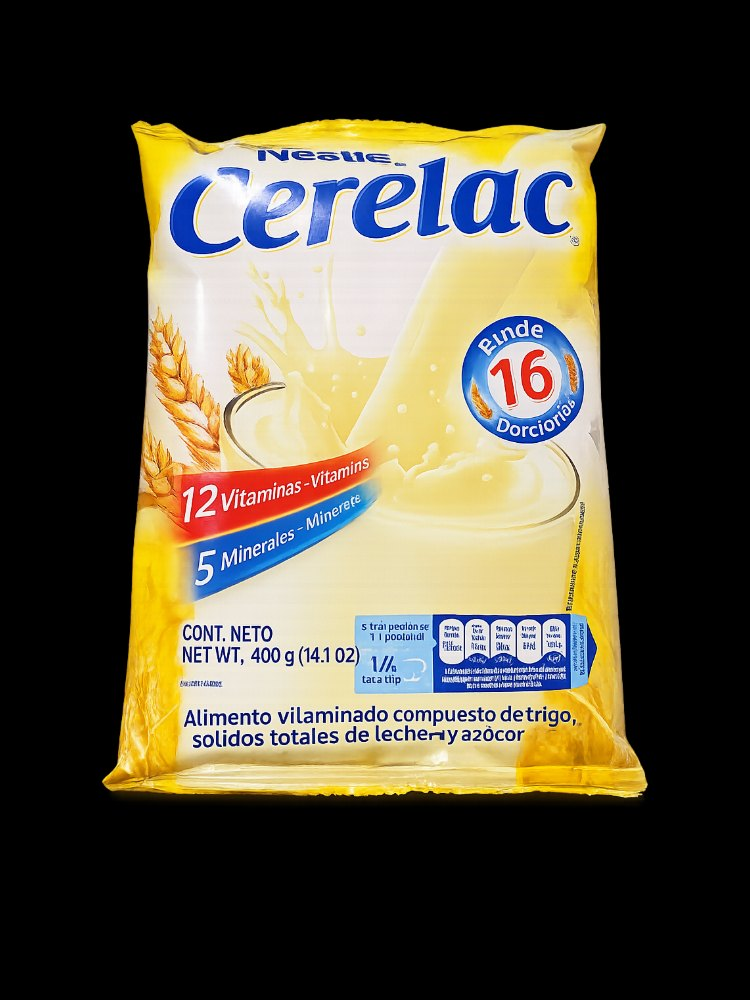
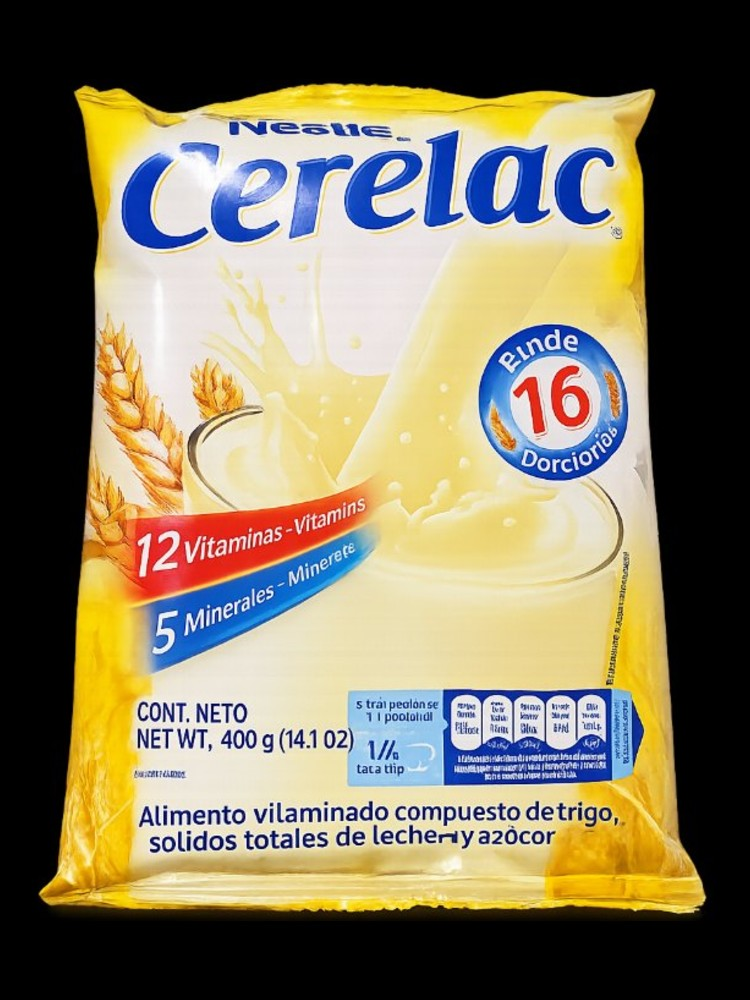
Agrega Mayonesa Mavesa 445g y empareja el tamaño de todas las fotos
- Nuevo producto: Mayonesa Mavesa 445 g (recorte guiado por máscara,
  igual que los últimos, para no dañar el frasco blanco).
- Corrige la categoría de Mayonesa Mavesa 910 g (estaba en "Lácteos y
  Grasas", en la base es "Salsas y Aderezos").
- Auditoría de tamaño en las 37 fotos: 6 quedaban notablemente más
  chicas que el resto (Queso Guayanés, Queso Blanco, Cerelac, Rikesa
  Cheddar 200, Jamón Plumrose, Nestum, entre 67%-78% de su marco).
  Se re-recortaron ajustadas a su contenido real para llenar el marco
  igual que las demás (~90%).

diff --git a/assets/js/products.js b/assets/js/products.js
@@ -9,7 +9,8 @@
    La foto de cada producto es img/productos/<id>.jpg (mismo nombre que el id). */
 window.SV_PRODUCTS = [
   // ── Lácteos y Grasas ──
-  { id: 'mayonesa-mavesa-910', nombre: 'Mayonesa Mavesa 910 g', categoria: 'Lácteos y Grasas', precio: 27300, emoji: '🫙', img: 'img/productos/mayonesa-mavesa-910.jpg', desc: 'La mayonesa favorita de Venezuela. Suave, cremosa y con ese sabor que tanto se extraña.' },
+  { id: 'mayonesa-mavesa-910', nombre: 'Mayonesa Mavesa 910 g', categoria: 'Salsas y Aderezos', precio: 27500, emoji: '🫙', img: 'img/productos/mayonesa-mavesa-910.jpg', desc: 'La mayonesa favorita de Venezuela. Suave, cremosa y con ese sabor que tanto se extraña.' },
+  { id: 'mayonesa-mavesa-445', nombre: 'Mayonesa Mavesa 445 g', match: 'Mavesa Mayonesa 445g', categoria: 'Salsas y Aderezos', precio: 14000, emoji: '🫙', img: 'img/productos/mayonesa-mavesa-445.jpg', desc: 'La mayonesa favorita de Venezuela, en presentación de 445 g.' },
   { id: 'margarina-mavesa-500', nombre: 'Margarina Mavesa 500 g', categoria: 'Lácteos y Grasas', precio: 10300, emoji: '🧈', img: 'img/productos/margarina-mavesa-500.jpg', desc: 'La margarina más cremosa de Venezuela. Perfecta para arepas y cachapas.' },
   { id: 'margarina-mavesa-250', nombre: 'Margarina Mavesa 250 g', categoria: 'Lácteos y Grasas', precio: 5800, emoji: '🧈', img: 'img/productos/margarina-mavesa-250.jpg', desc: 'Margarina Mavesa en presentación de 250 g. El rico sabor de siempre.' },
   { id: 'margarina-mavesa-1kilo', nombre: 'Margarina Mavesa 1 kilo', categoria: 'Lácteos y Grasas', precio: 24200, emoji: '🧈', img: 'img/productos/margarina-mavesa-1kilo.jpg', desc: 'Margarina Mavesa en presentación familiar de 1 kilo.' },

diff --git a/index.html b/index.html
@@ -16,7 +16,7 @@
 <link rel="preconnect" href="https://fonts.googleapis.com">
 <link rel="preconnect" href="https://fonts.gstatic.com" crossorigin>
 <link href="https://fonts.googleapis.com/css2?family=Playfair+Display:ital,wght@0,700;0,900;1,700&family=Nunito:wght@400;600;700;800;900&display=swap" rel="stylesheet">
-<link rel="stylesheet" href="assets/css/style.css?v=21">
+<link rel="stylesheet" href="assets/css/style.css?v=22">
 </head>
 <body>
 
@@ -324,9 +324,9 @@
 
 <!-- El ?v=N obliga al navegador a bajar la versión nueva y no una guardada vieja.
      Al publicar un cambio, sube el número (v=3 → v=4) en TODAS estas líneas. -->
-<script src="assets/js/config.js?v=21"></script>
-<script src="assets/js/products.js?v=21"></script>
-<script src="assets/js/store.js?v=21"></script>
-<script src="assets/js/app.js?v=21"></script>
+<script src="assets/js/config.js?v=22"></script>
+<script src="assets/js/products.js?v=22"></script>
+<script src="assets/js/store.js?v=22"></script>
+<script src="assets/js/app.js?v=22"></script>
 </body>
 </html>
